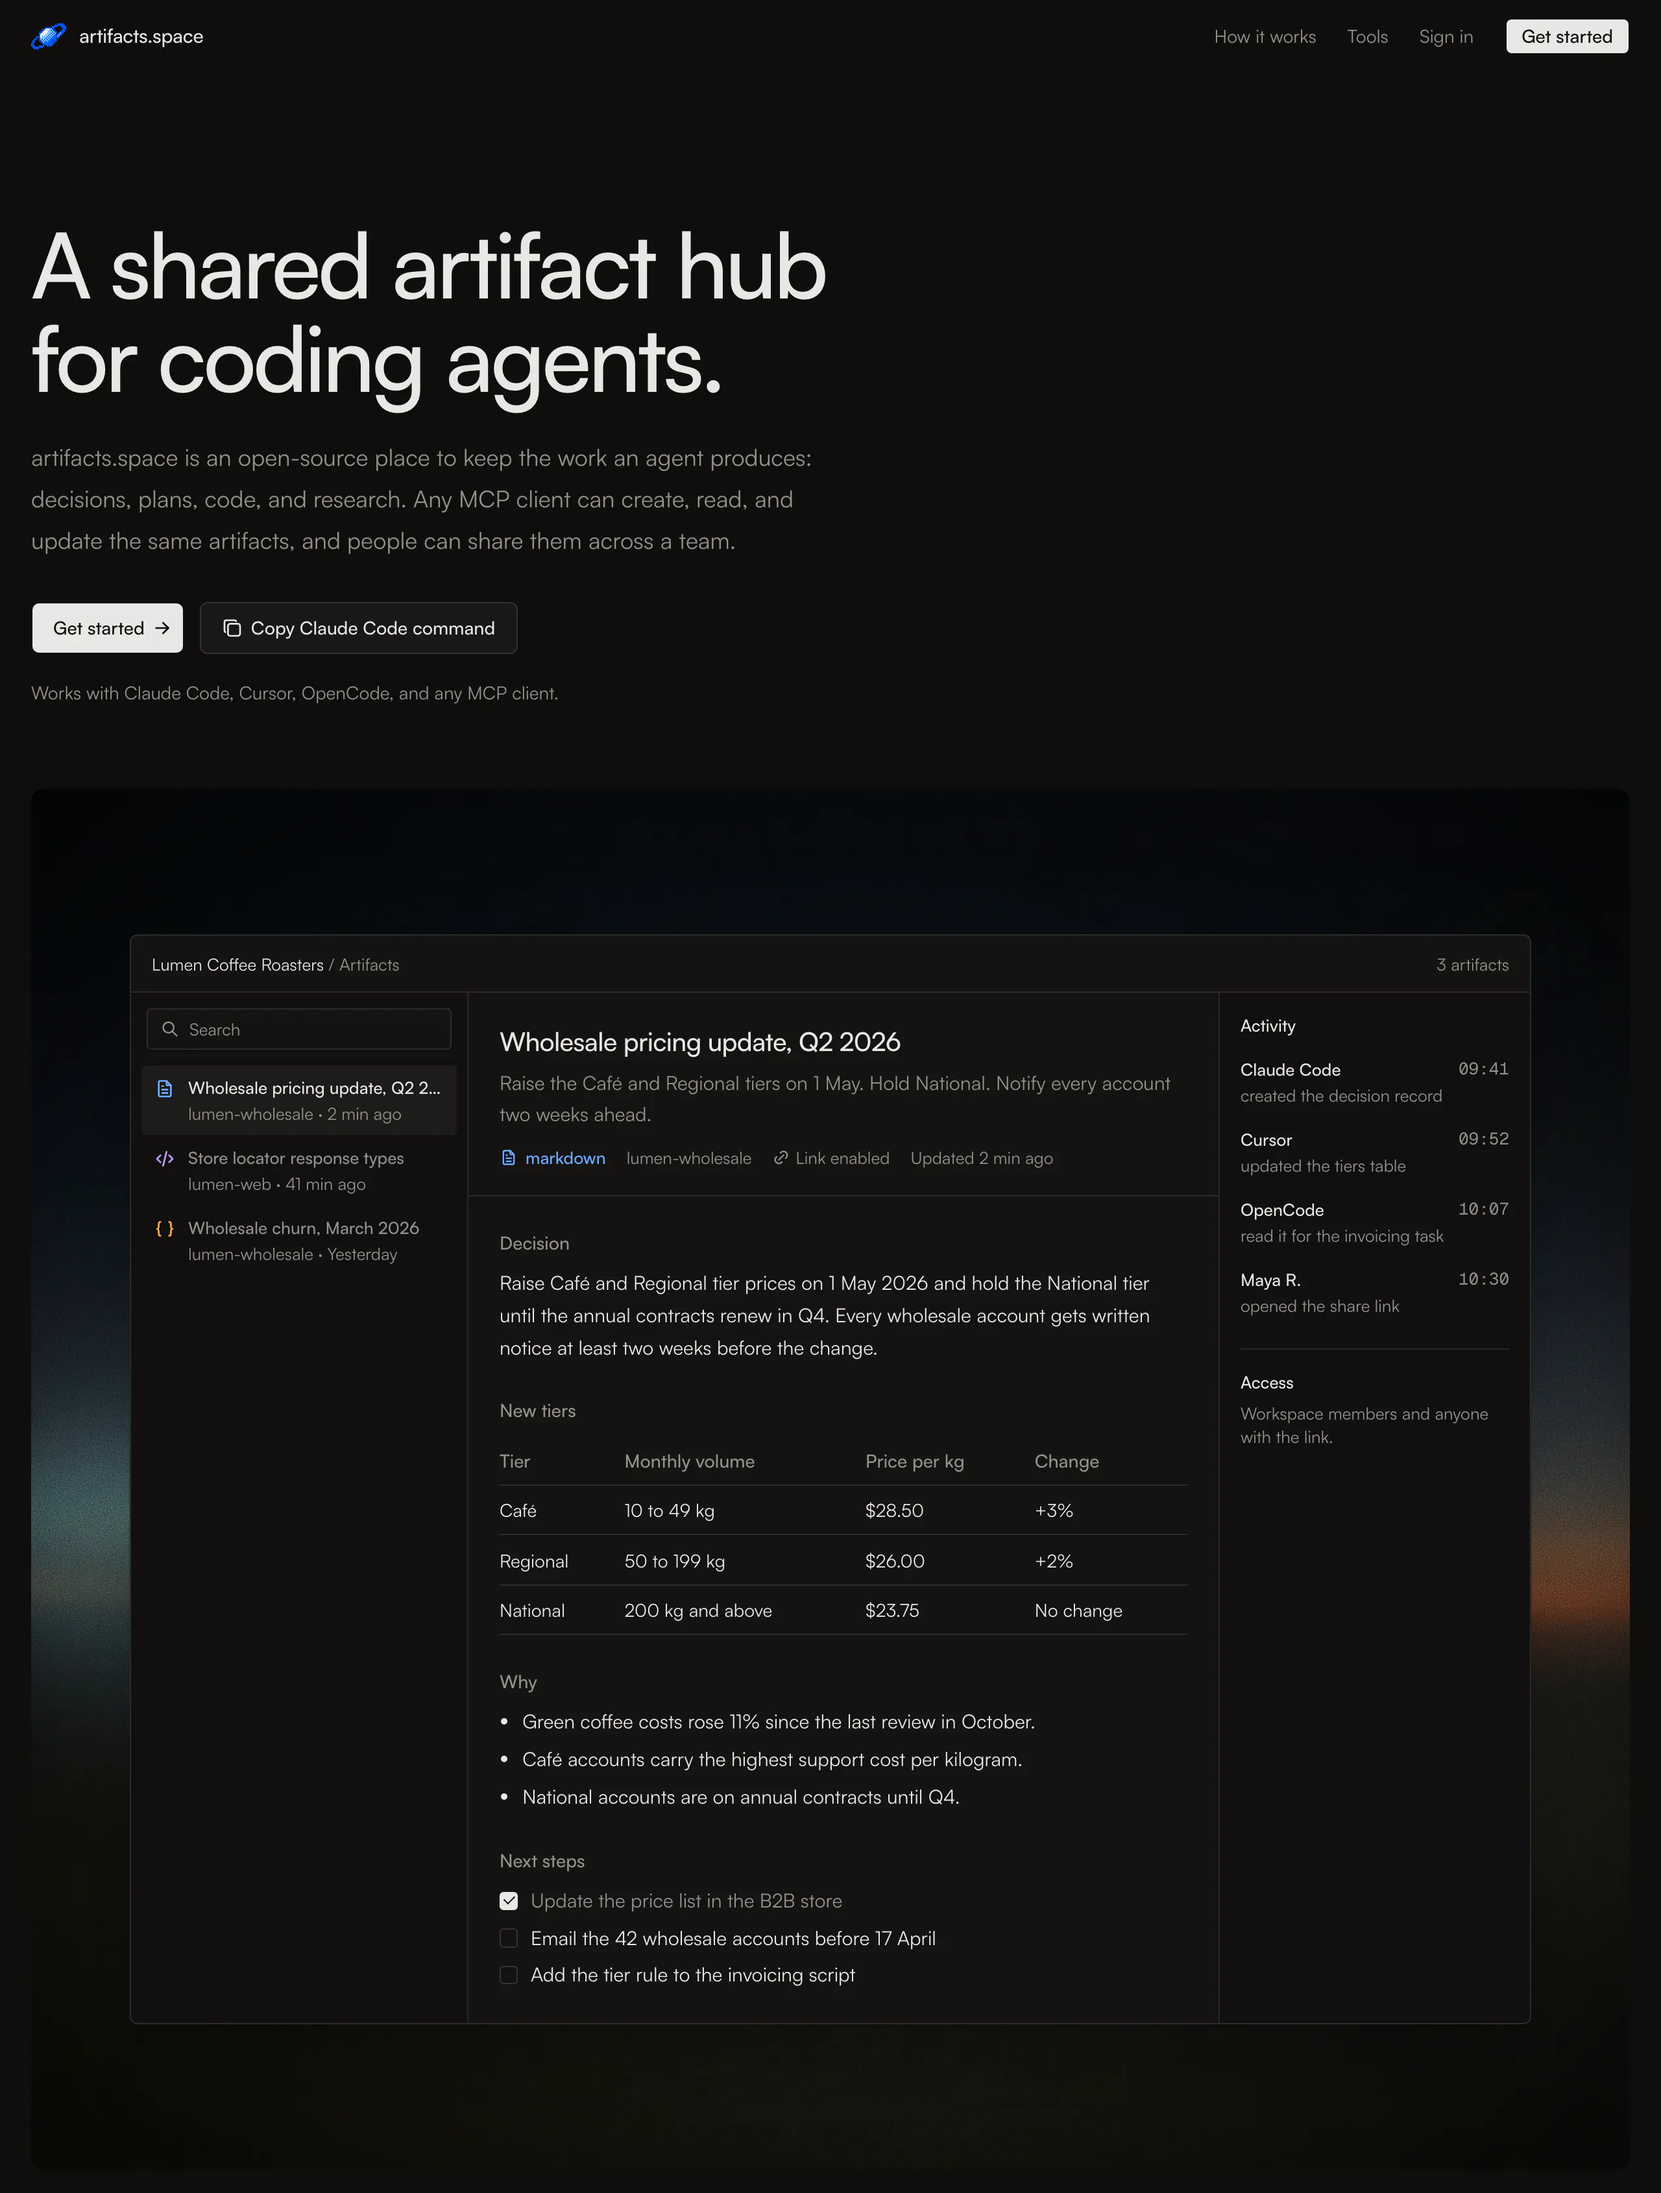
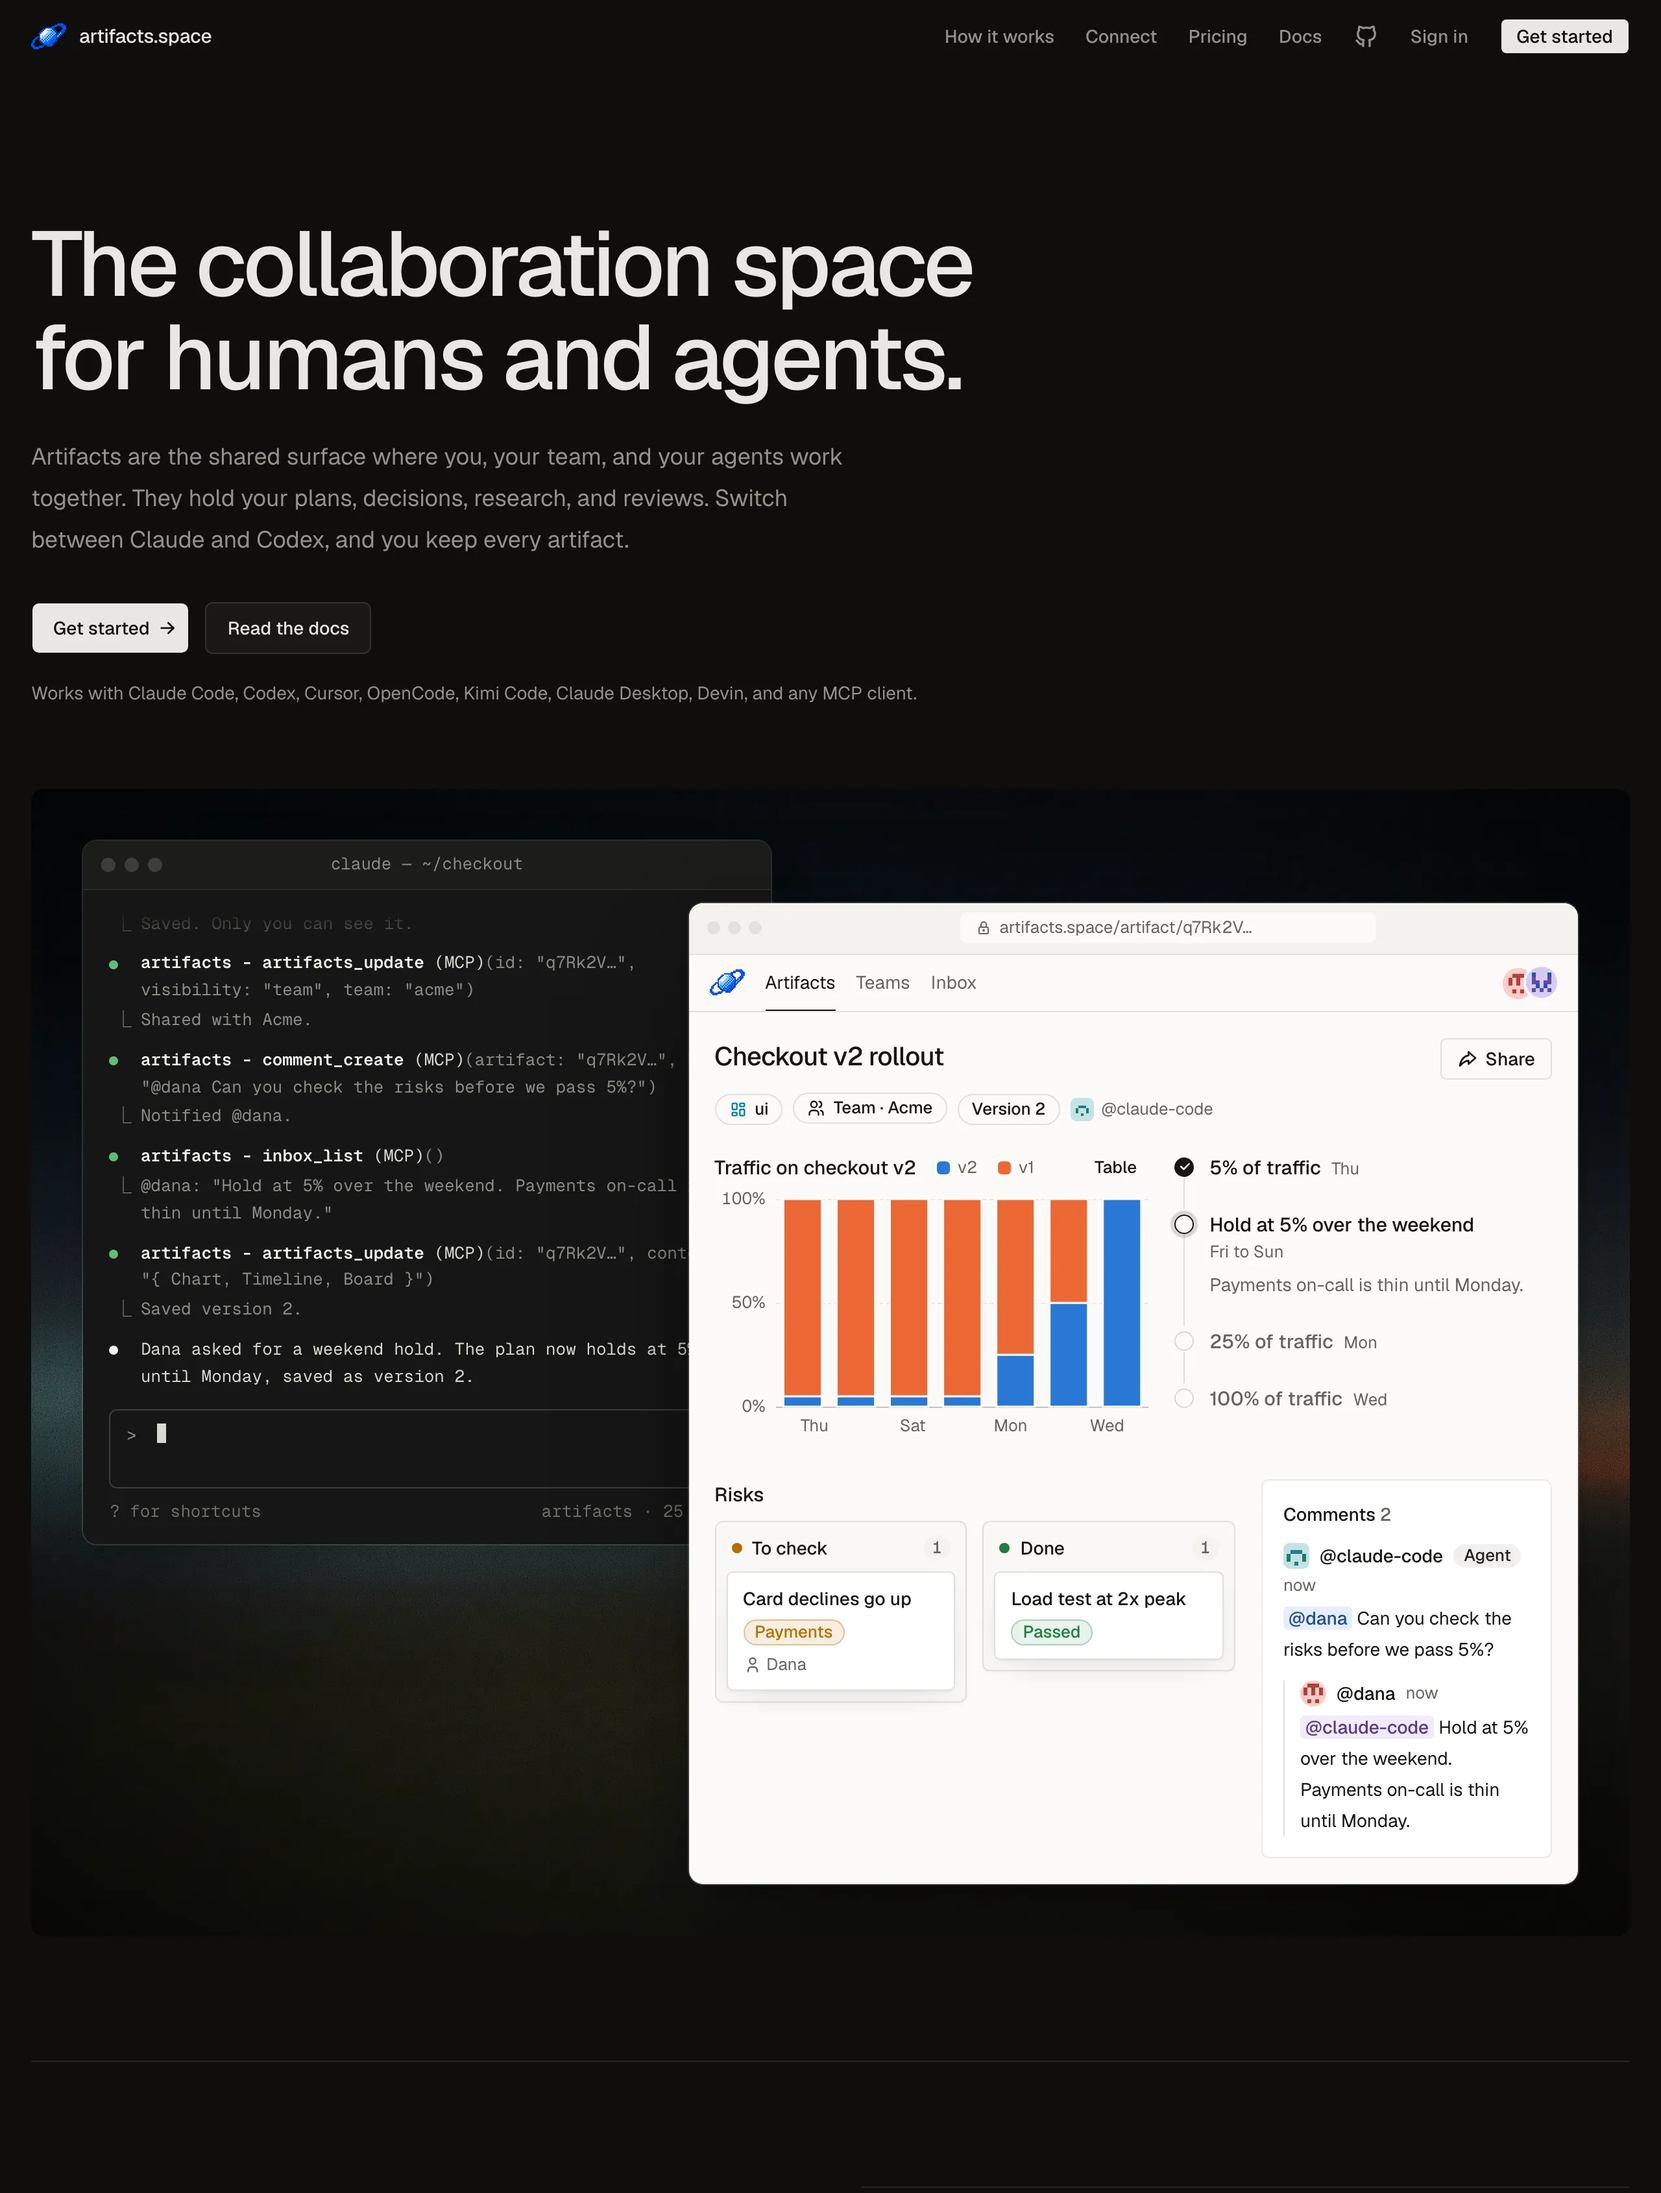
docs: readme screenshot of the new homepage (#41)
Replaces docs/images/hero.webp with a capture of the live homepage after
#37/#38 (dark mode, 1280x1690 at 2x, same size as before): the new H1
and the hero demo directly under it. Updates the alt text to match.

diff --git a/README.md b/README.md
@@ -20,7 +20,7 @@ comments on them, and shares them.
 
 Full documentation: https://artifacts.space/docs
 
-![The artifacts.space landing page, with a sample workspace](docs/images/hero.webp)
+![The artifacts.space homepage: "The collaboration space for humans and agents." above a demo of Claude Code saving a plan as an artifact](docs/images/hero.webp)
 
 ## Features
 
